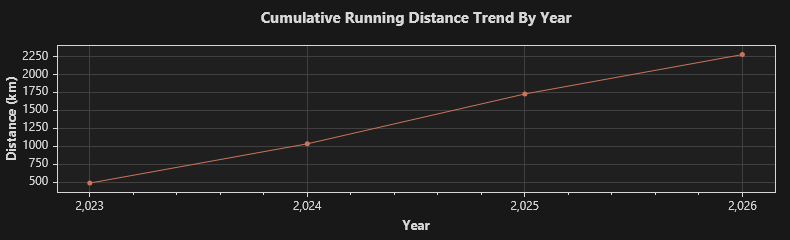
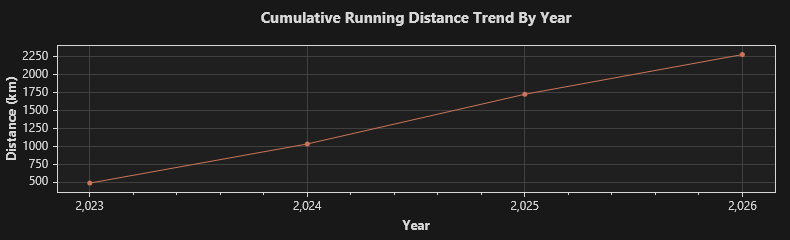
2026/9/29 跑步 6.11 公里

diff --git a/trend.md b/trend.md
@@ -1,4 +1,4 @@
-### Total: 386 days, 2275.9899999999997817212715745 km.
+### Total: 387 days, 2282.0999999999999090505298227 km.
 
 
 ![Monthly](https://github.com/prime167/MyRunningLog/blob/main/data/CumulativeTrendByMonth.png)
